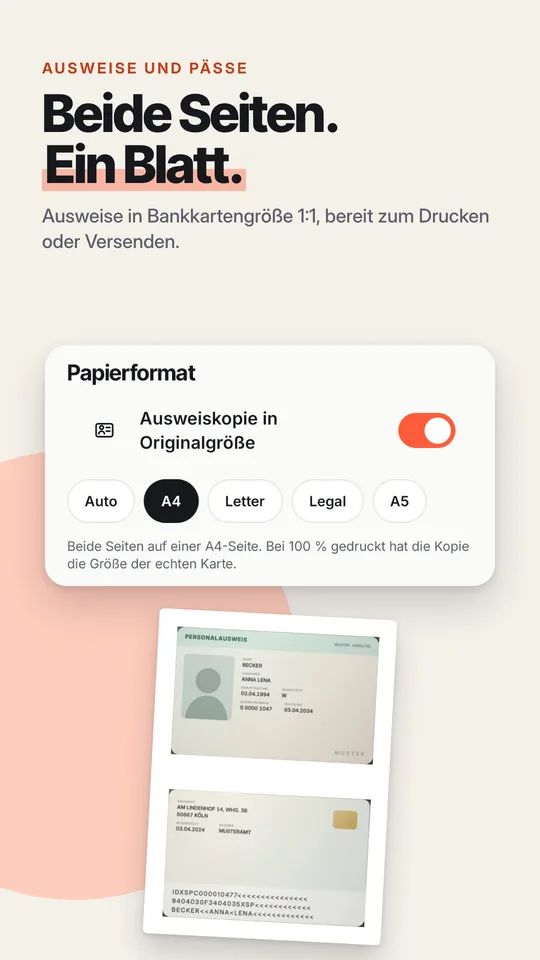
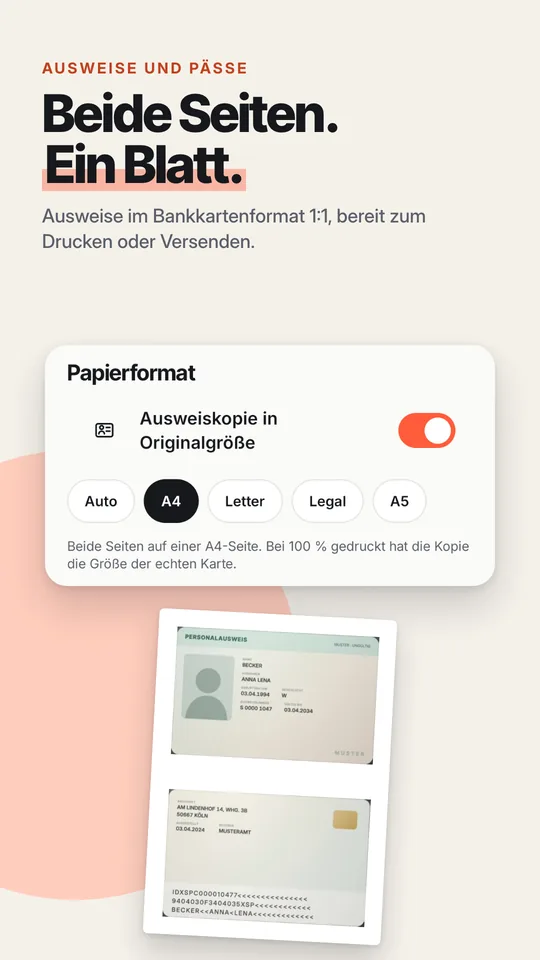
Scanelo sitesi: liste review'undan gelen metin düzeltmeleri
- de, es: kimlik ekran görüntüsü (de'de ß yok, es'te "a tamaño real").
- tr "Kmer", ru "прослушивайте", pl "pobierają się", hi "लाएं".

Changed region(s): [[0.0889, 0.2188, 0.9185, 0.2812]]

diff --git a/scanelo/ru/index.html b/scanelo/ru/index.html
@@ -239,7 +239,7 @@ details.menu{position:relative}details.menu>summary{list-style:none;cursor:point
 </section>
 <section class="sec" id="features" aria-labelledby="feat-t">
   <div class="wrap"><div class="sh"><p class="kicker">Что умеет Scanelo</p><h2 id="feat-t">Скан, поиск, порядок и подпись</h2><p class="sub">Всё происходит на вашем телефоне — от первого снимка до готового PDF.</p></div>
-  <div class="grid"><article class="card"><div class="card-ic"><svg class="ic" viewBox="0 0 24 24" aria-hidden="true" fill="none" stroke="currentColor" stroke-width="1.8" stroke-linecap="round" stroke-linejoin="round"><path d="M4 8V6a2 2 0 0 1 2-2h2M16 4h2a2 2 0 0 1 2 2v2M20 16v2a2 2 0 0 1-2 2h-2M8 20H6a2 2 0 0 1-2-2v-2"/><path d="M4 12h16"/></svg></div><h3>Сканирование в PDF за секунды</h3><p>Края страницы определяются в реальном времени, а автосъёмка делает снимок, как только кадр замирает. Пакетное сканирование собирает много страниц в один PDF.</p></article><article class="card"><div class="card-ic"><svg class="ic" viewBox="0 0 24 24" aria-hidden="true" fill="none" stroke="currentColor" stroke-width="1.8" stroke-linecap="round" stroke-linejoin="round"><circle cx="10.5" cy="10.5" r="6"/><path d="m15 15 5 5"/></svg></div><h3>Найдите любое слово в любом скане</h3><p>Распознавание текста читает каждую страницу прямо на телефоне, и поиск находит слова внутри сканов. Копируйте текст, слушайте его вслух или переводите.</p></article><article class="card"><div class="card-ic"><svg class="ic" viewBox="0 0 24 24" aria-hidden="true" fill="none" stroke="currentColor" stroke-width="1.8" stroke-linecap="round" stroke-linejoin="round"><path d="M3 7a2 2 0 0 1 2-2h4l2 2h8a2 2 0 0 1 2 2v8a2 2 0 0 1-2 2H5a2 2 0 0 1-2-2z"/><path d="m9 13 2 2 4-4"/></svg></div><h3>Всё по полочкам на этом телефоне</h3><p>Каждый скан получает понятное название по типу и отправителю, например счёт или договор. Умные папки сами собирают чеки, удостоверения и заметки.</p></article><article class="card"><div class="card-ic"><svg class="ic" viewBox="0 0 24 24" aria-hidden="true" fill="none" stroke="currentColor" stroke-width="1.8" stroke-linecap="round" stroke-linejoin="round"><rect x="3" y="5" width="18" height="14" rx="2.5"/><circle cx="9" cy="11" r="2.2"/><path d="M5.8 16c.6-1.6 1.8-2.4 3.2-2.4s2.6.8 3.2 2.4M14.5 10h4M14.5 13.5h3"/></svg></div><h3>Копии ID-карт в реальном размере</h3><p>Отсканируйте обе стороны удостоверения: они окажутся на одной странице, готовые к печати и отправке. Удостоверения размером с банковскую карту получаются в натуральную величину.</p></article><article class="card"><div class="card-ic"><svg class="ic" viewBox="0 0 24 24" aria-hidden="true" fill="none" stroke="currentColor" stroke-width="1.8" stroke-linecap="round" stroke-linejoin="round"><path d="M3 17c2.5 0 3.5-6 6-6s1.5 5 4 5 2.5-3 4-3 2 1.5 4 1.5"/><path d="M3 21h18"/></svg></div><h3>Подпишите в пару касаний</h3><p>Нарисуйте подпись один раз — и она всегда под рукой. Добавляйте инициалы, сегодняшнюю дату, текст, выделение маркером и фигуры.</p></article><article class="card"><div class="card-ic"><svg class="ic" viewBox="0 0 24 24" aria-hidden="true" fill="none" stroke="currentColor" stroke-width="1.8" stroke-linecap="round" stroke-linejoin="round"><path d="M4 6h9M8.5 4v2M6 6c0 4 3 7 6 8M11 6c-.5 3-2.5 6-6 8"/><path d="m13 20 4-9 4 9M14.5 17h5"/></svg></div><h3>Понимает разные письменности</h3><p>Латиница и кириллица, деванагари, греческое, арабское, бенгальское, тайское и кхмерское письмо, а также китайский, японский и корейский текст. Языки распознавания скачиваются один раз.</p></article></div></div>
+  <div class="grid"><article class="card"><div class="card-ic"><svg class="ic" viewBox="0 0 24 24" aria-hidden="true" fill="none" stroke="currentColor" stroke-width="1.8" stroke-linecap="round" stroke-linejoin="round"><path d="M4 8V6a2 2 0 0 1 2-2h2M16 4h2a2 2 0 0 1 2 2v2M20 16v2a2 2 0 0 1-2 2h-2M8 20H6a2 2 0 0 1-2-2v-2"/><path d="M4 12h16"/></svg></div><h3>Сканирование в PDF за секунды</h3><p>Края страницы определяются в реальном времени, а автосъёмка делает снимок, как только кадр замирает. Пакетное сканирование собирает много страниц в один PDF.</p></article><article class="card"><div class="card-ic"><svg class="ic" viewBox="0 0 24 24" aria-hidden="true" fill="none" stroke="currentColor" stroke-width="1.8" stroke-linecap="round" stroke-linejoin="round"><circle cx="10.5" cy="10.5" r="6"/><path d="m15 15 5 5"/></svg></div><h3>Найдите любое слово в любом скане</h3><p>Распознавание текста читает каждую страницу прямо на телефоне, и поиск находит слова внутри сканов. Копируйте текст, прослушивайте или переводите.</p></article><article class="card"><div class="card-ic"><svg class="ic" viewBox="0 0 24 24" aria-hidden="true" fill="none" stroke="currentColor" stroke-width="1.8" stroke-linecap="round" stroke-linejoin="round"><path d="M3 7a2 2 0 0 1 2-2h4l2 2h8a2 2 0 0 1 2 2v8a2 2 0 0 1-2 2H5a2 2 0 0 1-2-2z"/><path d="m9 13 2 2 4-4"/></svg></div><h3>Всё по полочкам на этом телефоне</h3><p>Каждый скан получает понятное название по типу и отправителю, например счёт или договор. Умные папки сами собирают чеки, удостоверения и заметки.</p></article><article class="card"><div class="card-ic"><svg class="ic" viewBox="0 0 24 24" aria-hidden="true" fill="none" stroke="currentColor" stroke-width="1.8" stroke-linecap="round" stroke-linejoin="round"><rect x="3" y="5" width="18" height="14" rx="2.5"/><circle cx="9" cy="11" r="2.2"/><path d="M5.8 16c.6-1.6 1.8-2.4 3.2-2.4s2.6.8 3.2 2.4M14.5 10h4M14.5 13.5h3"/></svg></div><h3>Копии ID-карт в реальном размере</h3><p>Отсканируйте обе стороны удостоверения: они окажутся на одной странице, готовые к печати и отправке. Удостоверения размером с банковскую карту получаются в натуральную величину.</p></article><article class="card"><div class="card-ic"><svg class="ic" viewBox="0 0 24 24" aria-hidden="true" fill="none" stroke="currentColor" stroke-width="1.8" stroke-linecap="round" stroke-linejoin="round"><path d="M3 17c2.5 0 3.5-6 6-6s1.5 5 4 5 2.5-3 4-3 2 1.5 4 1.5"/><path d="M3 21h18"/></svg></div><h3>Подпишите в пару касаний</h3><p>Нарисуйте подпись один раз — и она всегда под рукой. Добавляйте инициалы, сегодняшнюю дату, текст, выделение маркером и фигуры.</p></article><article class="card"><div class="card-ic"><svg class="ic" viewBox="0 0 24 24" aria-hidden="true" fill="none" stroke="currentColor" stroke-width="1.8" stroke-linecap="round" stroke-linejoin="round"><path d="M4 6h9M8.5 4v2M6 6c0 4 3 7 6 8M11 6c-.5 3-2.5 6-6 8"/><path d="m13 20 4-9 4 9M14.5 17h5"/></svg></div><h3>Понимает разные письменности</h3><p>Латиница и кириллица, деванагари, греческое, арабское, бенгальское, тайское и кхмерское письмо, а также китайский, японский и корейский текст. Языки распознавания скачиваются один раз.</p></article></div></div>
 </section>
 <section class="sec sec-alt" id="tools" aria-labelledby="tools-t">
   <div class="wrap"><div class="sh"><p class="kicker">Инструменты PDF</p><h2 id="tools-t">Объединить, разделить, сжать</h2><p class="sub">Всё работает на этом телефоне, даже офлайн.</p></div>

diff --git a/scanelo/tr/index.html b/scanelo/tr/index.html
@@ -239,7 +239,7 @@ details.menu{position:relative}details.menu>summary{list-style:none;cursor:point
 </section>
 <section class="sec" id="features" aria-labelledby="feat-t">
   <div class="wrap"><div class="sh"><p class="kicker">Neler yapar</p><h2 id="feat-t">Tara, bul, düzenle, imzala</h2><p class="sub">İlk fotoğraftan hazır PDF&#x27;e kadar her şey telefonunda olur.</p></div>
-  <div class="grid"><article class="card"><div class="card-ic"><svg class="ic" viewBox="0 0 24 24" aria-hidden="true" fill="none" stroke="currentColor" stroke-width="1.8" stroke-linecap="round" stroke-linejoin="round"><path d="M4 8V6a2 2 0 0 1 2-2h2M16 4h2a2 2 0 0 1 2 2v2M20 16v2a2 2 0 0 1-2 2h-2M8 20H6a2 2 0 0 1-2-2v-2"/><path d="M4 12h16"/></svg></div><h3>Saniyeler içinde PDF&#x27;e tara</h3><p>Canlı kenar algılama sayfayı bulur, otomatik çekim görüntü sabitlendiği an fotoğrafı çeker. Toplu taramayla birçok sayfayı tek bir PDF&#x27;te topla.</p></article><article class="card"><div class="card-ic"><svg class="ic" viewBox="0 0 24 24" aria-hidden="true" fill="none" stroke="currentColor" stroke-width="1.8" stroke-linecap="round" stroke-linejoin="round"><circle cx="10.5" cy="10.5" r="6"/><path d="m15 15 5 5"/></svg></div><h3>Her kelimeyi her taramada bul</h3><p>Metin tanıma her sayfayı telefonunda okur; böylece arama, taramalarının içindeki kelimeleri de bulur. Metni kopyala, sesli dinle ya da çevir.</p></article><article class="card"><div class="card-ic"><svg class="ic" viewBox="0 0 24 24" aria-hidden="true" fill="none" stroke="currentColor" stroke-width="1.8" stroke-linecap="round" stroke-linejoin="round"><path d="M3 7a2 2 0 0 1 2-2h4l2 2h8a2 2 0 0 1 2 2v8a2 2 0 0 1-2 2H5a2 2 0 0 1-2-2z"/><path d="m9 13 2 2 4-4"/></svg></div><h3>Her şey bu telefonda, yerli yerinde</h3><p>Her tarama, türüne ve geldiği kuruma göre fatura ya da sözleşme gibi anlaşılır bir ad alır. Akıllı klasörler fişleri, kimlikleri ve notları kendiliğinden toplar.</p></article><article class="card"><div class="card-ic"><svg class="ic" viewBox="0 0 24 24" aria-hidden="true" fill="none" stroke="currentColor" stroke-width="1.8" stroke-linecap="round" stroke-linejoin="round"><rect x="3" y="5" width="18" height="14" rx="2.5"/><circle cx="9" cy="11" r="2.2"/><path d="M5.8 16c.6-1.6 1.8-2.4 3.2-2.4s2.6.8 3.2 2.4M14.5 10h4M14.5 13.5h3"/></svg></div><h3>Gerçek boyutlu kimlik kartı kopyası</h3><p>Kimliğini önlü arkalı tara; iki yüz tek sayfaya yerleşir, yazdırmaya ve göndermeye hazır olur. Banka kartı boyutundaki kimlikler gerçek boyutta çıkar.</p></article><article class="card"><div class="card-ic"><svg class="ic" viewBox="0 0 24 24" aria-hidden="true" fill="none" stroke="currentColor" stroke-width="1.8" stroke-linecap="round" stroke-linejoin="round"><path d="M3 17c2.5 0 3.5-6 6-6s1.5 5 4 5 2.5-3 4-3 2 1.5 4 1.5"/><path d="M3 21h18"/></svg></div><h3>Birkaç dokunuşla imzala</h3><p>İmzanı bir kez çiz, sonraki belgelerde hazır olsun. Paraf, bugünün tarihi, metin, vurgu ve şekil ekle.</p></article><article class="card"><div class="card-ic"><svg class="ic" viewBox="0 0 24 24" aria-hidden="true" fill="none" stroke="currentColor" stroke-width="1.8" stroke-linecap="round" stroke-linejoin="round"><path d="M4 6h9M8.5 4v2M6 6c0 4 3 7 6 8M11 6c-.5 3-2.5 6-6 8"/><path d="m13 20 4-9 4 9M14.5 17h5"/></svg></div><h3>Birçok alfabeyi okur</h3><p>Latin, Kiril, Yunan, Arap, Devanagari, Bengal, Tay ve Khmer alfabeleriyle yazılmış metinlerin yanı sıra Çince, Japonca ve Korece de okur. Dil modelleri yalnızca bir kez iner.</p></article></div></div>
+  <div class="grid"><article class="card"><div class="card-ic"><svg class="ic" viewBox="0 0 24 24" aria-hidden="true" fill="none" stroke="currentColor" stroke-width="1.8" stroke-linecap="round" stroke-linejoin="round"><path d="M4 8V6a2 2 0 0 1 2-2h2M16 4h2a2 2 0 0 1 2 2v2M20 16v2a2 2 0 0 1-2 2h-2M8 20H6a2 2 0 0 1-2-2v-2"/><path d="M4 12h16"/></svg></div><h3>Saniyeler içinde PDF&#x27;e tara</h3><p>Canlı kenar algılama sayfayı bulur, otomatik çekim görüntü sabitlendiği an fotoğrafı çeker. Toplu taramayla birçok sayfayı tek bir PDF&#x27;te topla.</p></article><article class="card"><div class="card-ic"><svg class="ic" viewBox="0 0 24 24" aria-hidden="true" fill="none" stroke="currentColor" stroke-width="1.8" stroke-linecap="round" stroke-linejoin="round"><circle cx="10.5" cy="10.5" r="6"/><path d="m15 15 5 5"/></svg></div><h3>Her kelimeyi her taramada bul</h3><p>Metin tanıma her sayfayı telefonunda okur; böylece arama, taramalarının içindeki kelimeleri de bulur. Metni kopyala, sesli dinle ya da çevir.</p></article><article class="card"><div class="card-ic"><svg class="ic" viewBox="0 0 24 24" aria-hidden="true" fill="none" stroke="currentColor" stroke-width="1.8" stroke-linecap="round" stroke-linejoin="round"><path d="M3 7a2 2 0 0 1 2-2h4l2 2h8a2 2 0 0 1 2 2v8a2 2 0 0 1-2 2H5a2 2 0 0 1-2-2z"/><path d="m9 13 2 2 4-4"/></svg></div><h3>Her şey bu telefonda, yerli yerinde</h3><p>Her tarama, türüne ve geldiği kuruma göre fatura ya da sözleşme gibi anlaşılır bir ad alır. Akıllı klasörler fişleri, kimlikleri ve notları kendiliğinden toplar.</p></article><article class="card"><div class="card-ic"><svg class="ic" viewBox="0 0 24 24" aria-hidden="true" fill="none" stroke="currentColor" stroke-width="1.8" stroke-linecap="round" stroke-linejoin="round"><rect x="3" y="5" width="18" height="14" rx="2.5"/><circle cx="9" cy="11" r="2.2"/><path d="M5.8 16c.6-1.6 1.8-2.4 3.2-2.4s2.6.8 3.2 2.4M14.5 10h4M14.5 13.5h3"/></svg></div><h3>Gerçek boyutlu kimlik kartı kopyası</h3><p>Kimliğini önlü arkalı tara; iki yüz tek sayfaya yerleşir, yazdırmaya ve göndermeye hazır olur. Banka kartı boyutundaki kimlikler gerçek boyutta çıkar.</p></article><article class="card"><div class="card-ic"><svg class="ic" viewBox="0 0 24 24" aria-hidden="true" fill="none" stroke="currentColor" stroke-width="1.8" stroke-linecap="round" stroke-linejoin="round"><path d="M3 17c2.5 0 3.5-6 6-6s1.5 5 4 5 2.5-3 4-3 2 1.5 4 1.5"/><path d="M3 21h18"/></svg></div><h3>Birkaç dokunuşla imzala</h3><p>İmzanı bir kez çiz, sonraki belgelerde hazır olsun. Paraf, bugünün tarihi, metin, vurgu ve şekil ekle.</p></article><article class="card"><div class="card-ic"><svg class="ic" viewBox="0 0 24 24" aria-hidden="true" fill="none" stroke="currentColor" stroke-width="1.8" stroke-linecap="round" stroke-linejoin="round"><path d="M4 6h9M8.5 4v2M6 6c0 4 3 7 6 8M11 6c-.5 3-2.5 6-6 8"/><path d="m13 20 4-9 4 9M14.5 17h5"/></svg></div><h3>Birçok alfabeyi okur</h3><p>Latin, Kiril, Yunan, Arap, Devanagari, Bengal, Tay ve Kmer alfabeleriyle yazılmış metinlerin yanı sıra Çince, Japonca ve Korece de okur. Dil modelleri yalnızca bir kez iner.</p></article></div></div>
 </section>
 <section class="sec sec-alt" id="tools" aria-labelledby="tools-t">
   <div class="wrap"><div class="sh"><p class="kicker">PDF araçları</p><h2 id="tools-t">Birleştir, böl, sıkıştır</h2><p class="sub">Her şey bu telefonda, çevrimdışıyken bile çalışır.</p></div>

diff --git a/scanelo/pl/index.html b/scanelo/pl/index.html
@@ -239,7 +239,7 @@ details.menu{position:relative}details.menu>summary{list-style:none;cursor:point
 </section>
 <section class="sec" id="features" aria-labelledby="feat-t">
   <div class="wrap"><div class="sh"><p class="kicker">Co potrafi</p><h2 id="feat-t">Skanuj, szukaj, porządkuj i podpisuj</h2><p class="sub">Wszystko dzieje się na twoim telefonie, od pierwszego zdjęcia do gotowego pliku PDF.</p></div>
-  <div class="grid"><article class="card"><div class="card-ic"><svg class="ic" viewBox="0 0 24 24" aria-hidden="true" fill="none" stroke="currentColor" stroke-width="1.8" stroke-linecap="round" stroke-linejoin="round"><path d="M4 8V6a2 2 0 0 1 2-2h2M16 4h2a2 2 0 0 1 2 2v2M20 16v2a2 2 0 0 1-2 2h-2M8 20H6a2 2 0 0 1-2-2v-2"/><path d="M4 12h16"/></svg></div><h3>Skanuj do PDF w kilka sekund</h3><p>Krawędzie są wykrywane na żywo, a aparat sam robi zdjęcie, gdy tylko strona przestanie się ruszać. Skanowanie wsadowe łączy wiele stron w jeden plik PDF.</p></article><article class="card"><div class="card-ic"><svg class="ic" viewBox="0 0 24 24" aria-hidden="true" fill="none" stroke="currentColor" stroke-width="1.8" stroke-linecap="round" stroke-linejoin="round"><circle cx="10.5" cy="10.5" r="6"/><path d="m15 15 5 5"/></svg></div><h3>Znajdź każde słowo w każdym skanie</h3><p>Rozpoznawanie tekstu odczytuje każdą stronę na telefonie, więc wyszukiwarka znajduje słowa w twoich skanach. Kopiuj tekst, odsłuchuj go lub tłumacz.</p></article><article class="card"><div class="card-ic"><svg class="ic" viewBox="0 0 24 24" aria-hidden="true" fill="none" stroke="currentColor" stroke-width="1.8" stroke-linecap="round" stroke-linejoin="round"><path d="M3 7a2 2 0 0 1 2-2h4l2 2h8a2 2 0 0 1 2 2v8a2 2 0 0 1-2 2H5a2 2 0 0 1-2-2z"/><path d="m9 13 2 2 4-4"/></svg></div><h3>Uporządkowane na tym telefonie</h3><p>Każdy skan dostaje czytelną nazwę według rodzaju i wystawcy, np. faktura albo umowa. Inteligentne foldery same zbierają paragony, dowody i notatki.</p></article><article class="card"><div class="card-ic"><svg class="ic" viewBox="0 0 24 24" aria-hidden="true" fill="none" stroke="currentColor" stroke-width="1.8" stroke-linecap="round" stroke-linejoin="round"><rect x="3" y="5" width="18" height="14" rx="2.5"/><circle cx="9" cy="11" r="2.2"/><path d="M5.8 16c.6-1.6 1.8-2.4 3.2-2.4s2.6.8 3.2 2.4M14.5 10h4M14.5 13.5h3"/></svg></div><h3>Kopie dowodu w rzeczywistym rozmiarze</h3><p>Zeskanuj przód i tył dowodu osobistego, a obie strony trafią na jedną kartkę w rzeczywistym rozmiarze, gotową do druku lub wysłania.</p></article><article class="card"><div class="card-ic"><svg class="ic" viewBox="0 0 24 24" aria-hidden="true" fill="none" stroke="currentColor" stroke-width="1.8" stroke-linecap="round" stroke-linejoin="round"><path d="M3 17c2.5 0 3.5-6 6-6s1.5 5 4 5 2.5-3 4-3 2 1.5 4 1.5"/><path d="M3 21h18"/></svg></div><h3>Podpisz w kilka sekund</h3><p>Narysuj podpis raz, a zostanie na później. Dodawaj inicjały, dzisiejszą datę, tekst, zakreślenia i kształty.</p></article><article class="card"><div class="card-ic"><svg class="ic" viewBox="0 0 24 24" aria-hidden="true" fill="none" stroke="currentColor" stroke-width="1.8" stroke-linecap="round" stroke-linejoin="round"><path d="M4 6h9M8.5 4v2M6 6c0 4 3 7 6 8M11 6c-.5 3-2.5 6-6 8"/><path d="m13 20 4-9 4 9M14.5 17h5"/></svg></div><h3>Czyta wiele rodzajów pisma</h3><p>Tekst w alfabecie łacińskim, greckim i arabskim, w cyrylicy oraz w piśmie dewanagari, bengalskim, tajskim, khmerskim, chińskim, japońskim i koreańskim. Modele językowe pobierasz tylko raz.</p></article></div></div>
+  <div class="grid"><article class="card"><div class="card-ic"><svg class="ic" viewBox="0 0 24 24" aria-hidden="true" fill="none" stroke="currentColor" stroke-width="1.8" stroke-linecap="round" stroke-linejoin="round"><path d="M4 8V6a2 2 0 0 1 2-2h2M16 4h2a2 2 0 0 1 2 2v2M20 16v2a2 2 0 0 1-2 2h-2M8 20H6a2 2 0 0 1-2-2v-2"/><path d="M4 12h16"/></svg></div><h3>Skanuj do PDF w kilka sekund</h3><p>Krawędzie są wykrywane na żywo, a aparat sam robi zdjęcie, gdy tylko strona przestanie się ruszać. Skanowanie wsadowe łączy wiele stron w jeden plik PDF.</p></article><article class="card"><div class="card-ic"><svg class="ic" viewBox="0 0 24 24" aria-hidden="true" fill="none" stroke="currentColor" stroke-width="1.8" stroke-linecap="round" stroke-linejoin="round"><circle cx="10.5" cy="10.5" r="6"/><path d="m15 15 5 5"/></svg></div><h3>Znajdź każde słowo w każdym skanie</h3><p>Rozpoznawanie tekstu odczytuje każdą stronę na telefonie, więc wyszukiwarka znajduje słowa w twoich skanach. Kopiuj tekst, odsłuchuj go lub tłumacz.</p></article><article class="card"><div class="card-ic"><svg class="ic" viewBox="0 0 24 24" aria-hidden="true" fill="none" stroke="currentColor" stroke-width="1.8" stroke-linecap="round" stroke-linejoin="round"><path d="M3 7a2 2 0 0 1 2-2h4l2 2h8a2 2 0 0 1 2 2v8a2 2 0 0 1-2 2H5a2 2 0 0 1-2-2z"/><path d="m9 13 2 2 4-4"/></svg></div><h3>Uporządkowane na tym telefonie</h3><p>Każdy skan dostaje czytelną nazwę według rodzaju i wystawcy, np. faktura albo umowa. Inteligentne foldery same zbierają paragony, dowody i notatki.</p></article><article class="card"><div class="card-ic"><svg class="ic" viewBox="0 0 24 24" aria-hidden="true" fill="none" stroke="currentColor" stroke-width="1.8" stroke-linecap="round" stroke-linejoin="round"><rect x="3" y="5" width="18" height="14" rx="2.5"/><circle cx="9" cy="11" r="2.2"/><path d="M5.8 16c.6-1.6 1.8-2.4 3.2-2.4s2.6.8 3.2 2.4M14.5 10h4M14.5 13.5h3"/></svg></div><h3>Kopie dowodu w rzeczywistym rozmiarze</h3><p>Zeskanuj przód i tył dowodu osobistego, a obie strony trafią na jedną kartkę w rzeczywistym rozmiarze, gotową do druku lub wysłania.</p></article><article class="card"><div class="card-ic"><svg class="ic" viewBox="0 0 24 24" aria-hidden="true" fill="none" stroke="currentColor" stroke-width="1.8" stroke-linecap="round" stroke-linejoin="round"><path d="M3 17c2.5 0 3.5-6 6-6s1.5 5 4 5 2.5-3 4-3 2 1.5 4 1.5"/><path d="M3 21h18"/></svg></div><h3>Podpisz w kilka sekund</h3><p>Narysuj podpis raz, a zostanie na później. Dodawaj inicjały, dzisiejszą datę, tekst, zakreślenia i kształty.</p></article><article class="card"><div class="card-ic"><svg class="ic" viewBox="0 0 24 24" aria-hidden="true" fill="none" stroke="currentColor" stroke-width="1.8" stroke-linecap="round" stroke-linejoin="round"><path d="M4 6h9M8.5 4v2M6 6c0 4 3 7 6 8M11 6c-.5 3-2.5 6-6 8"/><path d="m13 20 4-9 4 9M14.5 17h5"/></svg></div><h3>Czyta wiele rodzajów pisma</h3><p>Tekst w alfabecie łacińskim, greckim i arabskim, w cyrylicy oraz w piśmie dewanagari, bengalskim, tajskim, khmerskim, chińskim, japońskim i koreańskim. Modele językowe pobierają się tylko raz.</p></article></div></div>
 </section>
 <section class="sec sec-alt" id="tools" aria-labelledby="tools-t">
   <div class="wrap"><div class="sh"><p class="kicker">Narzędzia PDF</p><h2 id="tools-t">Łącz, dziel, kompresuj</h2><p class="sub">Wszystko działa na tym telefonie, nawet offline.</p></div>

diff --git a/scanelo/de/index.html b/scanelo/de/index.html
@@ -249,7 +249,7 @@ details.menu{position:relative}details.menu>summary{list-style:none;cursor:point
   <div class="wrap"><div class="sh"><p class="kicker">Ein Blick hinein</p><h2 id="gal-t">Aufgeräumte Oberfläche, saubere PDFs</h2></div></div>
   <div class="gal">
     <button class="gal-btn prev" type="button" aria-label="Vorherige Screenshots"><svg class="ic" viewBox="0 0 24 24" aria-hidden="true" fill="none" stroke="currentColor" stroke-width="1.8" stroke-linecap="round" stroke-linejoin="round"><path d="m14.5 6-6 6 6 6"/></svg></button>
-    <ul class="gal-track" tabindex="0" aria-labelledby="gal-t"><li><img src="/scanelo/assets/shots/de/01.webp" width="540" height="960" alt="Scanelo erkennt die Kanten einer Rechnung auf dem Schreibtisch und macht daraus ein sauberes, benanntes PDF." loading="lazy" decoding="async"></li><li><img src="/scanelo/assets/shots/de/02.webp" width="540" height="960" alt="Dokumente in intelligenten Ordnern auf dem Smartphone, private Dateien mit PIN geschützt." loading="lazy" decoding="async"></li><li><img src="/scanelo/assets/shots/de/03.webp" width="540" height="960" alt="Ein gespeichertes PDF mit den Hinweisen „Kein Wasserzeichen“ und „Auf diesem Smartphone“, ohne Konto geteilt." loading="lazy" decoding="async"></li><li><img src="/scanelo/assets/shots/de/04.webp" width="540" height="960" alt="Die Suche nach einem Wort findet es in einem gescannten Mietvertrag, markiert auf der Seite." loading="lazy" decoding="async"></li><li><img src="/scanelo/assets/shots/de/05.webp" width="540" height="960" alt="Vorder- und Rückseite eines Ausweises in Bankkartengröße auf einem Blatt, als Kopie im Originalformat." loading="lazy" decoding="async"></li><li><img src="/scanelo/assets/shots/de/06.webp" width="540" height="960" alt="Eine Unterschrift auf der Mieterzeile eines gescannten Mietvertrags, für das nächste Mal gespeichert." loading="lazy" decoding="async"></li><li><img src="/scanelo/assets/shots/de/07.webp" width="540" height="960" alt="PDF-Werkzeuge zum Zusammenfügen, Aufteilen und Komprimieren, mit MB-Limit für den E-Mail-Versand." loading="lazy" decoding="async"></li></ul>
+    <ul class="gal-track" tabindex="0" aria-labelledby="gal-t"><li><img src="/scanelo/assets/shots/de/01.webp" width="540" height="960" alt="Scanelo erkennt die Kanten einer Rechnung auf dem Schreibtisch und macht daraus ein sauberes, benanntes PDF." loading="lazy" decoding="async"></li><li><img src="/scanelo/assets/shots/de/02.webp" width="540" height="960" alt="Dokumente in intelligenten Ordnern auf dem Smartphone, private Dateien mit PIN geschützt." loading="lazy" decoding="async"></li><li><img src="/scanelo/assets/shots/de/03.webp" width="540" height="960" alt="Ein gespeichertes PDF mit den Hinweisen „Kein Wasserzeichen“ und „Auf diesem Smartphone“, ohne Konto geteilt." loading="lazy" decoding="async"></li><li><img src="/scanelo/assets/shots/de/04.webp" width="540" height="960" alt="Die Suche nach einem Wort findet es in einem gescannten Mietvertrag, markiert auf der Seite." loading="lazy" decoding="async"></li><li><img src="/scanelo/assets/shots/de/05.webp" width="540" height="960" alt="Vorder- und Rückseite eines Ausweises im Bankkartenformat auf einem Blatt, als Kopie im Originalformat." loading="lazy" decoding="async"></li><li><img src="/scanelo/assets/shots/de/06.webp" width="540" height="960" alt="Eine Unterschrift auf der Mieterzeile eines gescannten Mietvertrags, für das nächste Mal gespeichert." loading="lazy" decoding="async"></li><li><img src="/scanelo/assets/shots/de/07.webp" width="540" height="960" alt="PDF-Werkzeuge zum Zusammenfügen, Aufteilen und Komprimieren, mit MB-Limit für den E-Mail-Versand." loading="lazy" decoding="async"></li></ul>
     <button class="gal-btn next" type="button" aria-label="Nächste Screenshots"><svg class="ic" viewBox="0 0 24 24" aria-hidden="true" fill="none" stroke="currentColor" stroke-width="1.8" stroke-linecap="round" stroke-linejoin="round"><path d="m9.5 6 6 6-6 6"/></svg></button>
   </div>
 </section>

diff --git a/scanelo/hi/index.html b/scanelo/hi/index.html
@@ -254,7 +254,7 @@ details.menu{position:relative}details.menu>summary{list-style:none;cursor:point
   </div>
 </section>
 <section class="sec sec-alt" id="how" aria-labelledby="how-t">
-  <div class="wrap"><div class="sh"><p class="kicker">यह कैसे काम करता है</p><h2 id="how-t">तीन स्टेप में कागज़ से PDF</h2></div><ol class="steps"><li><span class="num">1</span><h3>फ़ोन को पेज के ऊपर रखें</h3><p>Scanelo किनारे ढूंढता है और पेज स्थिर होते ही फ़ोटो ले लेता है।</p></li><li><span class="num">2</span><h3>देखें और सेव करें</h3><p>पेज सीधा और साफ़ हो जाता है। चाहें तो क्रॉप या फ़िल्टर बदलें, फिर सेव करें।</p></li><li><span class="num">3</span><h3>शेयर करें या बाद में खोजें</h3><p>असली PDF शेयर करें, या जब ज़रूरत हो, उसके अंदर कोई भी शब्द खोजें।</p></li></ol></div>
+  <div class="wrap"><div class="sh"><p class="kicker">यह कैसे काम करता है</p><h2 id="how-t">तीन स्टेप में कागज़ से PDF</h2></div><ol class="steps"><li><span class="num">1</span><h3>फ़ोन को पेज के ऊपर लाएं</h3><p>Scanelo किनारे ढूंढता है और पेज स्थिर होते ही फ़ोटो ले लेता है।</p></li><li><span class="num">2</span><h3>देखें और सेव करें</h3><p>पेज सीधा और साफ़ हो जाता है। चाहें तो क्रॉप या फ़िल्टर बदलें, फिर सेव करें।</p></li><li><span class="num">3</span><h3>शेयर करें या बाद में खोजें</h3><p>असली PDF शेयर करें, या जब ज़रूरत हो, उसके अंदर कोई भी शब्द खोजें।</p></li></ol></div>
 </section>
 <section class="sec" id="privacy" aria-labelledby="priv-t">
   <div class="wrap"><div class="priv">
